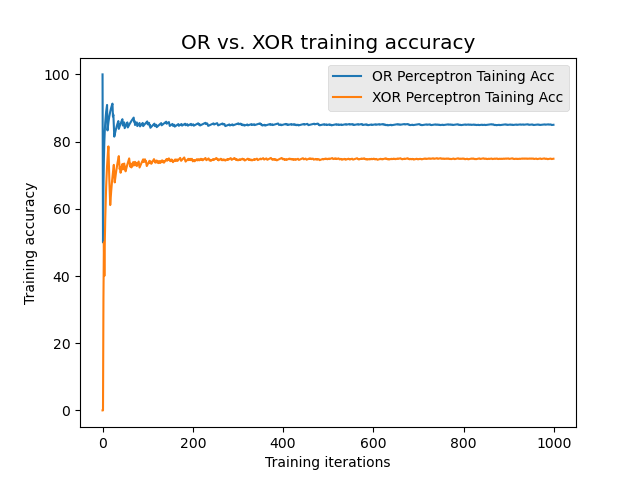
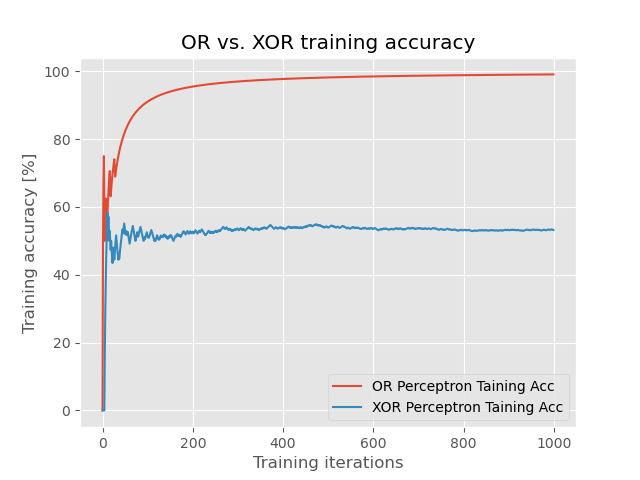
Corrected Q1 perceptron with correct Perceptron learning rule, now working on implementing Batch Grad Descent for Q2 2-layer neural net.

diff --git a/hw/hw02/nn_2layer.py b/hw/hw02/nn_2layer.py
@@ -41,11 +41,11 @@ class nn_2layer:
     #self.pIC = paramIC # parameter initial conditions - normal or uniform distr.
     self.loss = 0 # training loss
     #self.param = dict() # a dictionary to hold all parameters
-    self.grad = dict() # a dict to hold all gradients (for SGD at BProp)
+    #self.grad = dict() # a dict to hold all gradients (for SGD at BProp)
     #self.gCache = dict() # will need this for chain rule at BProp
     # Print and data logging
     self.prt = prt
-    self.log.on = recTrainHist # this is the Enable flag for data logging
+    #self.logOn = recTrainHist # this is the Enable flag for data logging
 
     # uniform distribution
     # first layer
@@ -68,22 +68,99 @@ class nn_2layer:
       print('B2:', self.B2)
       print('\n\n')
     #pdb.set_trace()
-    if self.log.on:
-      self.log.W1 = list()
-      self.log.B1 = list()
-      self.log.Z1 = list()
-      self.log.Y1 = list()
-      self.log.W2 = list()
-      self.log.B2 = list()
-      self.log.Z2 = list()
-      self.log.Yest = list()
-      self.log.iters = list()
-      self.log.W1update = list()
-      self.log.B1update = list()
-      self.log.W2update = list()
-      self.log.B2update = list()
-      self.log.accHist = list()
+    #if self.logOn:'
+    # init datalogger
+    self.log = datalogger(recTrainHist)
     return
+
+
+    """
+      def train(self, X, Y):
+    self.nSamples, self.mFeatures = X.shape
+    self.W = np.random.uniform(low=-.1, high=.1, size=self.mFeatures)
+    self.b = 0
+
+    XY = np.concatenate((X, Y), axis=1)
+    XY_tmp = np.ndarray.copy(XY)
+    for _ in range(self.iters):
+      i = random.randint(0, len(XY_tmp)-1)
+      Xdatum = XY_tmp[i][:-1]
+      Ydatum = XY_tmp[i][-1]
+      XY_tmp = np.delete(XY_tmp, i, axis=0)
+      #pdb.set_trace()
+      linOutput = np.dot(Xdatum, self.W) + self.b
+      y_ = self.af(linOutput)
+      # apply the Perceptron rule
+      error = Ydatum - y_
+      update = self.lr * error
+      delta_W = update * Xdatum
+      self.W += delta_W
+      self.b += error
+      if len(XY_tmp)==0: XY_tmp = np.ndarray.copy(XY)
+      if self.prt==True:
+        print("iter:{:<4d}".format(_)," |X:{:2}".format(Xdatum[0]), \
+          "{:2}".format(Xdatum[1]), "{:2}".format(Xdatum[2]), \
+          "{:2}".format(Xdatum[3]), " |Y:{:2}".format(Ydatum), \
+          " |y_:{:2}".format(y_), " | err:{:2}".format(error), \
+          " | W:{:3.2f}".format(self.W[0]), "{:3.2f}".format(self.W[1]), \
+          "{:3.2f}".format(self.W[2]), '{:3.2f}'.format(self.W[3]))
+      if self.recTrainHist==True:
+        self.WHist.append(self.W)
+        self.bHist.append(self.b)
+        self.XHist.append(Xdatum)
+        self.YHist.append(Ydatum)
+        self.YestHist.append(y_)
+        self.ErrHist.append(error)
+        self.deltaWHist.append(delta_W)
+        #self.updateHist.append(update)
+        self.accHist.append(self.getacc(self.YHist, self.YestHist))
+    return
+
+
+    """
+
+
+  def train(self, X, Y):
+    self.nSamples, self.mFeatures = X.shape
+    self.W = np.random.uniform(low=-.1, high=.1, size=self.mFeatures)
+    self.b = 0
+
+    XY = np.concatenate((X, Y), axis=1)
+    XY_tmp = np.ndarray.copy(XY)
+    for _ in range(self.iters):
+      i = random.randint(0, len(XY_tmp)-1)
+      Xdatum = XY_tmp[i][:-1]
+      Ydatum = XY_tmp[i][-1]
+      XY_tmp = np.delete(XY_tmp, i, axis=0)
+      #pdb.set_trace()
+      linOutput = np.dot(Xdatum, self.W) + self.b
+      y_ = self.af(linOutput)
+      # apply the Perceptron rule
+      error = Ydatum - y_
+      update = self.lr * error
+      delta_W = update * Xdatum
+      self.W += delta_W
+      self.b += update
+      if len(XY_tmp)==0: XY_tmp = np.ndarray.copy(XY)
+      if self.prt==True:
+        print("iter:{:<4d}".format(_)," |X:{:2}".format(Xdatum[0]), \
+          "{:2}".format(Xdatum[1]), "{:2}".format(Xdatum[2]), \
+          "{:2}".format(Xdatum[3]), " |Y:{:2}".format(Ydatum), \
+          " |y_:{:2}".format(y_), " | err:{:2}".format(error), \
+          " | W:{:3.2f}".format(self.W[0]), "{:3.2f}".format(self.W[1]), \
+          "{:3.2f}".format(self.W[2]), '{:3.2f}'.format(self.W[3]))
+      if self.recTrainHist==True:
+        self.WHist.append(self.W)
+        self.bHist.append(self.b)
+        self.XHist.append(Xdatum)
+        self.YHist.append(Ydatum)
+        self.YestHist.append(y_)
+        self.ErrHist.append(error)
+        self.deltaWHist.append(delta_W)
+        self.updateHist.append(update)
+        self.accHist.append(self.getacc(self.YHist, self.YestHist))
+    return
+
 
 
   def sigmoid(self, var):
@@ -115,15 +192,6 @@ class nn_2layer:
       self.log.iters.append(iteration)
     return
 
-  def L1(self, Yact, Yest):
-    losses = abs(Yact-Yest)
-    loss = np.sum(losses)
-    return loss
-
-  def L2(self, Yact, Yest):
-    losses = (Yact-Yest) ** 2
-    loss = np.sum(losses)
-    return loss
 
   def cEntropy(self, Yact, Yest): # not tested
     loss = (1.0 / self.nSamples) * (- np.dot(Yact, np.log(Yest).T) - \
@@ -198,6 +266,25 @@ class nn_2layer:
         print('\n\n')
     return
 
+# data logger with easy data structure handler
+class datalogger:
+  def __init__(self, enable):
+    self.on = enable # enable flag
+    self.W1 = list()
+    self.B1 = list()
+    self.Z1 = list()
+    self.Y1 = list()
+    self.W2 = list()
+    self.B2 = list()
+    self.Z2 = list()
+    self.Yest = list()
+    self.iters = list()
+    self.W1update = list()
+    self.B1update = list()
+    self.W2update = list()
+    self.B2update = list()
+    self.accHist = list()
+    return
 
 def get_data(data, Ymax,  Ymin):
   X = list()
@@ -222,7 +309,7 @@ if __name__ == '__main__':
   print('-->> Training and testing with OR')
   X, Y = get_data(dataOR, Ymax=1, Ymin=0) # rescale output to [0,1] since we're using Sigmoid activation function
 
-  nnOR = nn_2layer(X, Y, lr=.01, iters=1000)
+  nnOR = nn_2layer(X, Y, lr=.001, iters=1000)
   nnOR.train()
   #plt.plot(range(len(pOR.accHist)), nnOR.accHist, label='OR Perceptron Taining Acc')
   #plt.show()

diff --git a/hw/hw02/perceptron.py b/hw/hw02/perceptron.py
@@ -24,12 +24,12 @@ dataXOR = [( 1,  1,  1,  1, -1),
            (-1, -1, -1,  1, -1)]
 
 class perceptron:
-  def __init__(self, lr, iters, prt, L, recTrainHist):
+  def __init__(self, lr, iters, prt, recTrainHist):
     self.lr = lr
     self.iters = iters
     self.af = self.sign
     self.prt = prt
-    self.loss = L
+    #self.loss = L
     self.recTrainHist = recTrainHist
     if self.recTrainHist:
       self.WHist = list()
@@ -46,7 +46,7 @@ class perceptron:
     return
 
   def sign(self, val):
-    return np.where(val>=0, 1, -1)
+    return np.where(val>0, 1, -1)
 
   def train(self, X, Y):
     self.nSamples, self.mFeatures = X.shape
@@ -64,11 +64,11 @@ class perceptron:
       linOutput = np.dot(Xdatum, self.W) + self.b
       y_ = self.af(linOutput)
       # apply the Perceptron rule
-      error = self.loss(Ydatum, y_)
+      error = Ydatum - y_
       update = self.lr * error
       delta_W = update * Xdatum
       self.W += delta_W
-      self.b += update
+      self.b += error
       if len(XY_tmp)==0: XY_tmp = np.ndarray.copy(XY)
       if self.prt==True:
         print("iter:{:<4d}".format(_)," |X:{:2}".format(Xdatum[0]), \
@@ -85,7 +85,7 @@ class perceptron:
         self.YestHist.append(y_)
         self.ErrHist.append(error)
         self.deltaWHist.append(delta_W)
-        self.updateHist.append(update)
+        #self.updateHist.append(update)
         self.accHist.append(self.getacc(self.YHist, self.YestHist))
     return
 
@@ -99,12 +99,6 @@ class perceptron:
       if groundtruth[i] == prediction[i]:
         correct += 1
     return correct / float(len(groundtruth)) * 100.0
-
-def L1(Yact, Yest):
-  return abs(Yact-Yest)
-
-def L2(Yact, Yest):
-  return ((Yact-Yest) ** 2)
 
 def get_data(data):
   X = list()
@@ -125,8 +119,9 @@ if __name__ == '__main__':
 
   print('-->> Training and testing with OR')
   X, Y = get_data(dataOR)
-  pOR = perceptron(.01, 1000, True, L2, True)
+  pOR = perceptron( 0.1, 1000, True, True)
   pOR.train(X,Y)
+  plt.style.use('ggplot')
   plt.plot(range(len(pOR.accHist)), pOR.accHist, label='OR Perceptron Taining Acc')
   #plt.show()
   #figOR = plt.figure()
@@ -137,15 +132,14 @@ if __name__ == '__main__':
   print("\n\n")
   print('-->> Training and testing with XOR')
   xorX, xorY = get_data(dataXOR)
-  pXOR = perceptron(.01, 1000, True, L2, True)
+  pXOR = perceptron( 0.1, 1000, True, True)
   pXOR.train(xorX,xorY)
-  plt.style.use('ggplot')
   #plt.style.use('fivethirtyeight')
 
   plt.plot(range(len(pXOR.accHist)), pXOR.accHist, label='XOR Perceptron Taining Acc')
 
   plt.xlabel('Training iterations')
-  plt.ylabel('Training accuracy')
+  plt.ylabel('Training accuracy [%]')
   plt.title('OR vs. XOR training accuracy')
   plt.legend()
   #plt.grid(True)
